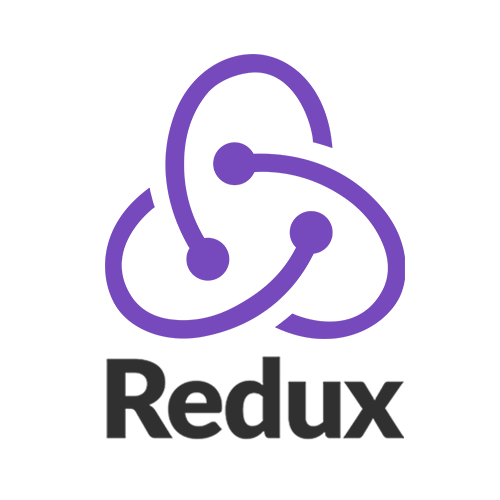
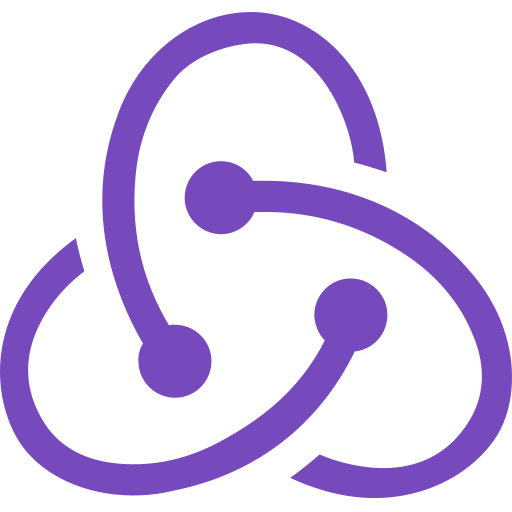
update

diff --git a/src/Component/Skill.jsx b/src/Component/Skill.jsx
@@ -15,9 +15,13 @@ import gitt from "../assets/git.png";
 import post from "../assets/postman.png";
 import type from "../assets/typescript.png";
 import ex from "../assets/expressjs.png";
+import nxt from "../assets/nextjs.png";
+import redis from "../assets/redis.png";
+import redux from "../assets/redux.png";
+import rest from "../assets/restapi.png";
 
 const Experience = () => {
-  const techs = [
+  const fs = [
     {
       id: 1,
       src: html,
@@ -62,54 +66,88 @@ const Experience = () => {
     },
     {
       id: 8,
-      src: type,
-      title: "TypeScript",
-      style: "shadow-blue-400",
-    },
-    {
-      id: 9,
       src: rct,
       title: "React",
       style: "shadow-blue-300",
     },
     {
+      id: 9,
+      src: nxt,
+      title: "Next.js",
+      style: "shadow-blue-100",
+    },
+    {
       id: 10,
+      src: redux,
+      title: "Redux",
+      style: "shadow-blue-600",
+    },
+  ];
+  const bs = [
+    {
+      id: 1,
+      src: js,
+      title: "JavaScript",
+      style: "shadow-yellow-500",
+    },
+    {
+      id: 2,
+      src: type,
+      title: "TypeScript",
+      style: "shadow-blue-400",
+    },
+    {
+      id: 4,
       src: node,
       title: "Node JS",
       style: "shadow-orange-300",
     },
     {
-      id: 11,
+      id: 5,
       src: ex,
       title: "express JS",
       style: "shadow-white",
     },
     {
-      id: 12,
+      id: 6,
+      src: rest,
+      title: "RESTful Api",
+      style: "shadow-blue-400",
+    },
+    {
+      id: 7,
       src: mongo,
       title: "MongoDB",
       style: "shadow-green-400",
     },
     {
-      id: 13,
+      id: 8,
+      src: redis,
+      title: "Redis",
+      style: "shadow-red-600",
+    },
+  ];
+  const tools = [
+    {
+      id: 1,
       src: post,
       title: "Postman",
       style: "shadow-orange-500",
     },
     {
-      id: 14,
+      id: 2,
       src: gitt,
       title: "git",
       style: "shadow-red-500",
     },
     {
-      id: 15,
+      id: 3,
       src: git,
       title: "GitHub",
       style: "shadow-white",
     },
     {
-      id: 16,
+      id: 4,
       src: vs,
       title: "Vs Code",
       style: "shadow-blue-400",
@@ -124,13 +162,57 @@ const Experience = () => {
       <div className="max-w-screen-lg mx-auto p-4 flex flex-col justify-center w-full h-full text-white">
         <div>
           <p className="text-4xl font-bold border-b-4 border-gray-500 p-2 inline">
-            Skills
+            Front-End Skills
           </p>
-          <p className="py-6">These are the technologies I've worked with</p>
+          <p className="py-6">
+            These are the frontend technologies that i use in my project & know
+            well.
+          </p>
         </div>
 
         <div className="w-full grid grid-cols-2 sm:grid-cols-3 gap-8 text-center py-8 px-12 sm:px-0">
-          {techs.map(({ id, src, title, style }) => (
+          {fs.map(({ id, src, title, style }) => (
+            <div
+              key={id}
+              className={`shadow-md hover:scale-105 duration-500 py-2 rounded-lg ${style}`}
+            >
+              <img src={src} alt="" className="w-20 h-20 mx-auto" />
+              <p className="mt-4">{title}</p>
+            </div>
+          ))}
+        </div>
+        <div>
+          <p className="text-4xl font-bold border-b-4 border-gray-500 p-2 inline">
+            Back-End Skills
+          </p>
+          <p className="py-6">
+            These are some backend technologies that i am familiar & I've worked
+            with in my project.
+          </p>
+        </div>
+
+        <div className="w-full grid grid-cols-2 sm:grid-cols-3 gap-8 text-center py-8 px-12 sm:px-0">
+          {bs.map(({ id, src, title, style }) => (
+            <div
+              key={id}
+              className={`shadow-md hover:scale-105 duration-500 py-2 rounded-lg ${style}`}
+            >
+              <img src={src} alt="" className="w-20 h-20 mx-auto" />
+              <p className="mt-4">{title}</p>
+            </div>
+          ))}
+        </div>
+        <div>
+          <p className="text-4xl font-bold border-b-4 border-gray-500 p-2 inline">
+            Tools
+          </p>
+          <p className="py-6">
+            These are some of the tools that I've worked with.
+          </p>
+        </div>
+
+        <div className="w-full grid grid-cols-2 sm:grid-cols-3 gap-8 text-center py-8 px-12 sm:px-0">
+          {tools.map(({ id, src, title, style }) => (
             <div
               key={id}
               className={`shadow-md hover:scale-105 duration-500 py-2 rounded-lg ${style}`}

diff --git a/src/Component/About.jsx b/src/Component/About.jsx
@@ -4,22 +4,27 @@ const About = () => {
   return (
     <div
       name="about me"
-      className="w-full h-screen bg-gradient-to-b from-gray-800 to-black text-white"
+      className="w-full h-full bg-gradient-to-b from-gray-800 to-black text-white pb-20"
     >
       <div className="max-w-screen-lg p-4 mx-auto flex flex-col justify-center w-full h-full">
-        <div>
+        <div className="pt-10">
           <p className="text-4xl font-bold inline border-b-4 border-gray-500">
             About Me
           </p>
         </div>
-        <p className="text-xl mt-20">
-          Aspiring full stack web developer from India with 1200 hours+ of
-          hands-on coding experience in building websites with MERN stack and
-          various web technologies, including HTML5, CSS3, and JavaScript ES6.
-          Curious to learn & adapt to the latest web technologies. Looking
-          forward to starting a career as a web developer and making a
-          significant contribution to an organization through dedicated effort &
-          time.
+        <p className="text-xl mt-20 lh-20">
+          A motivated Full Stack Web Developer from india with 1200 hours+ of
+          hands-on coding experience in building websites with React.JS,
+          Node.js, Express.JS, MongoDB, etc and various web technologies,
+          including HTML5, CSS3, and JavaScript ES6. I have Strong coding and
+          design skills also good command over Data Structures & Algorithms. I
+          also have the ability to produce bug-free and production-grade code
+          also experience working with systems that are asynchronous, RESTful
+          and demand concurrency. Curious to learn & adapt to the latest web
+          technologies also i have develop a deep understanding of the start-up
+          ecosystem. Looking forward to starting a career as a web developer and
+          making a significant contribution to an organization through dedicated
+          effort & time.
         </p>
       </div>
     </div>

diff --git a/src/Component/Home.jsx b/src/Component/Home.jsx
@@ -7,7 +7,7 @@ const Home = () => {
   return (
     <div
       name="home"
-      className="h-screen w-full bg-gradient-to-b from-black via-black to-gray-800"
+      className="h-screen w-full bg-gradient-to-b from-black via-black to-gray-800 pb-20"
     >
       <div className="max-w-screen-lg mx-auto flex flex-col items-center justify-center h-full px-4 md:flex-row">
         <div className="flex flex-col justify-center h-full">
